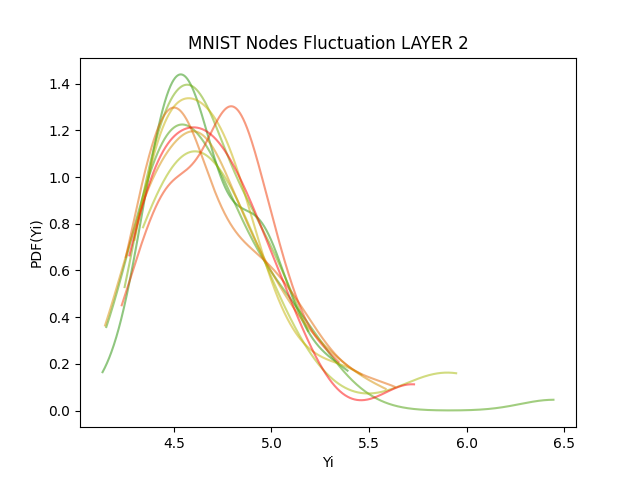
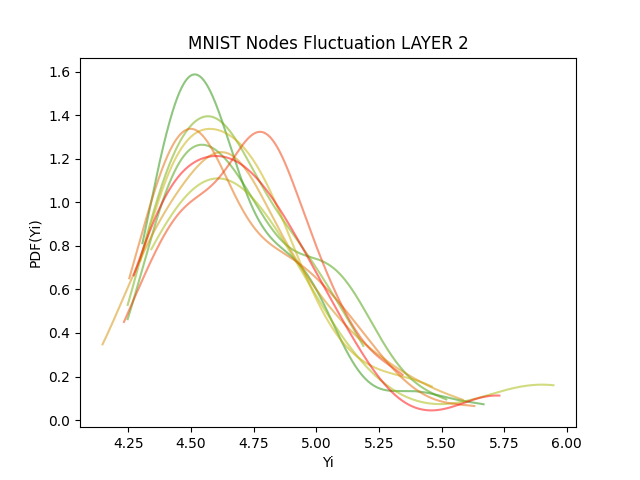
Results global-cnn

diff --git a/train_vision.py b/train_vision.py
@@ -129,15 +129,15 @@ for seed_value in range(seed_range, seed_range+sims):
     
     # parameters initializers
     initializers = {}
-    #initializers['random-normal'] = keras.initializers.RandomNormal(mean=0.0, stddev=scaling_factor, seed=seed_value)
+    initializers['random-normal'] = keras.initializers.RandomNormal(mean=0.0, stddev=scaling_factor, seed=seed_value)
     initializers['random-uniform'] = keras.initializers.RandomUniform(minval=-scaling_factor, maxval=scaling_factor, seed=seed_value)
-    #initializers['truncated-normal'] = keras.initializers.TruncatedNormal(mean=0.0, stddev=scaling_factor, seed=seed_value)
-    #initializers['variance-scaling-normal-fanin'] = keras.initializers.VarianceScaling(scale=scaling_factor, mode='fan_in', distribution='normal', seed=seed_value)
-    #initializers['variance-scaling-normal-fanout'] = keras.initializers.VarianceScaling(scale=scaling_factor, mode='fan_out', distribution='normal', seed=seed_value)
-    #initializers['variance-scaling-normal-fanavg'] = keras.initializers.VarianceScaling(scale=scaling_factor, mode='fan_avg', distribution='normal', seed=seed_value)
-    #initializers['variance-scaling-uniform-fanin'] = keras.initializers.VarianceScaling(scale=scaling_factor, mode='fan_in', distribution='uniform', seed=seed_value)
-    #initializers['variance-scaling-uniform-fanout'] = keras.initializers.VarianceScaling(scale=scaling_factor, mode='fan_out', distribution='uniform', seed=seed_value)
-    #initializers['variance-scaling-uniform-fanavg'] = keras.initializers.VarianceScaling(scale=scaling_factor, mode='fan_avg', distribution='uniform', seed=seed_value)
+    initializers['truncated-normal'] = keras.initializers.TruncatedNormal(mean=0.0, stddev=scaling_factor, seed=seed_value)
+    initializers['variance-scaling-normal-fanin'] = keras.initializers.VarianceScaling(scale=scaling_factor, mode='fan_in', distribution='normal', seed=seed_value)
+    initializers['variance-scaling-normal-fanout'] = keras.initializers.VarianceScaling(scale=scaling_factor, mode='fan_out', distribution='normal', seed=seed_value)
+    initializers['variance-scaling-normal-fanavg'] = keras.initializers.VarianceScaling(scale=scaling_factor, mode='fan_avg', distribution='normal', seed=seed_value)
+    initializers['variance-scaling-uniform-fanin'] = keras.initializers.VarianceScaling(scale=scaling_factor, mode='fan_in', distribution='uniform', seed=seed_value)
+    initializers['variance-scaling-uniform-fanout'] = keras.initializers.VarianceScaling(scale=scaling_factor, mode='fan_out', distribution='uniform', seed=seed_value)
+    initializers['variance-scaling-uniform-fanavg'] = keras.initializers.VarianceScaling(scale=scaling_factor, mode='fan_avg', distribution='uniform', seed=seed_value)
 
     # set initializer
     optimizers = {}
